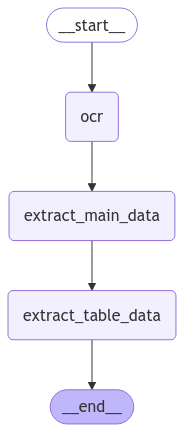
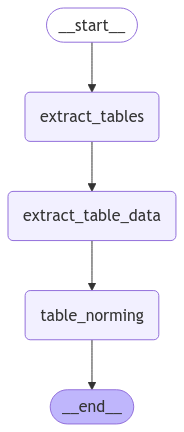
Merge updates

diff --git a/src/utils_mock_extract_table_data.py b/src/utils_mock_extract_table_data.py
@@ -1,20 +1,19 @@
-
-
-
 import base64
 from model import ExtractTableDataState
 import pickle
 from typing import Any, Dict, List
 from azure.ai.documentintelligence.models import AnalyzeResult
 
+
 def convert_png_to_base64(png_file_path):
     with open(png_file_path, "rb") as image_file:
-        base64_string = base64.b64encode(image_file.read()).decode('utf-8')
+        base64_string = base64.b64encode(image_file.read()).decode("utf-8")
     return base64_string
+
 
 def mock_extract_table_data_state() -> ExtractTableDataState:
     # Example usage
-    png_file_path = "mock_tabledata/56388722_us2015274579_page-06.png" 
+    png_file_path = "mock_tabledata/56388722_us2015274579_page-06.png"
     base64_string = convert_png_to_base64(png_file_path)
 
     ocr_file_path = "mock_tabledata/US7227700_2025-01-13T12-28-14Z.pkl"
@@ -22,33 +21,29 @@ def mock_extract_table_data_state() -> ExtractTableDataState:
         ocr_data = pickle.load(f)  # Load the object synchronously
 
     print("ready")
-    return ExtractTableDataState(ocr_text = ocr_data, 
-                                                    images=[base64_string], 
-                                                    table_data_result=None,
-                                                    confidence= None,
-                                                    reason=None,
-                                                    retried=False)
+    return ExtractTableDataState(ocr_text=ocr_data, images=[base64_string], table_data_result=None, confidence=None, reason=None, retried=False)
 
 
-def load_from_pickle(filename):  
-    with open(filename, 'rb') as file:  
-        data = pickle.load(file)  
-    return data  
-
-# Load the `pages` object from the pickle file  
-pages = load_from_pickle('mock_tabledata/56388722_us2015274579_pages1.pkl')
-page_6 = pages[5]  
-
-# Load the `tables` object from the pickle file  
-tables = load_from_pickle('mock_tabledata/56388722_us2015274579_tables1.pkl')  
-table_05 = tables[5]
-
-# Example usage: print the loaded data  
-#print("Loaded pages:", pages)  
-#print("Loaded tables:", tables)
-
-print("test")  
+def load_from_pickle(filename):
+    with open(filename, "rb") as file:
+        data = pickle.load(file)
+    return data
 
 
-#if __name__ == "__main__":
+# Load the `pages` object from the pickle file
+# pages = load_from_pickle('mock_tabledata/56388722_us2015274579_pages1.pkl')
+# page_6 = pages[5]
+
+# Load the `tables` object from the pickle file
+# tables = load_from_pickle('mock_tabledata/56388722_us2015274579_tables1.pkl')
+# table_05 = tables[5]
+
+# Example usage: print the loaded data
+# print("Loaded pages:", pages)
+# print("Loaded tables:", tables)
+
+print("test")
+
+
+# if __name__ == "__main__":
 #    mock_extract_table_data_state()

diff --git a/src/main.py b/src/main.py
@@ -1,23 +1,27 @@
 from langgraph.graph import StateGraph, START, END
-from agents.ocr_agent import construct_ocr
+from agents.extract_table_agent import construct_extract_table_agent
+from agents.table_norming_agent import construct_table_norming
 from agents.extract_table_data_agent import construct_extract_table_data
 from model import BaseState
 import os
 
 
 def _construct_graph():
-    ocr_graph = construct_ocr()
+    extract_tables_graph = construct_extract_table_agent()
+    table_norming_graph = construct_table_norming()
     extract_table_data_graph = construct_extract_table_data()
 
     workflow = StateGraph(BaseState)
-    workflow.add_node("ocr", ocr_graph)
+    workflow.add_node("extract_tables", extract_tables_graph)
     workflow.add_node("extract_table_data", extract_table_data_graph)
+    workflow.add_node("table_norming", table_norming_graph)
 
-    workflow.add_edge(START, "ocr")
-    workflow.add_edge("ocr", "extract_table_data")
-    workflow.add_edge("extract_table_data", END)
+    workflow.add_edge(START, "extract_tables")
+    workflow.add_edge("extract_tables", "extract_table_data")
+    workflow.add_edge("extract_table_data", "table_norming")
+    workflow.add_edge("table_norming", END)
 
-    graph = workflow.compile(debug=True)
+    graph = workflow.compile(debug=False)
     bytes_graph = graph.get_graph().draw_mermaid_png()
     with open("workflow.png", "wb") as f:
         f.write(bytes_graph)
@@ -36,13 +40,17 @@ def main_local_files():
             _ = graph.invoke(state)
 
 
-def main_url():
-    urls = ["https://invoiceoffice.de/wp-content/uploads/2021/04/Eine-Beispielrechnung-fu%CC%88r-Freiberufler-und-Unternehmen.png"]
+def main():
+    pdfs = [
+        "data/56388722_us2015274579.pdf"
+        # , "../data/78071_DE1771318A1.pdf"
+        # , "../data/80946226_cn111646693.pdf"
+    ]
     graph = _construct_graph()
-    for url in urls:
-        state = BaseState(doc_path=url)
+    for pdf in pdfs:
+        state = BaseState(doc_path=pdf)
         _ = graph.invoke(state)
 
 
 if __name__ == "__main__":
-    main_url()
+    main()
